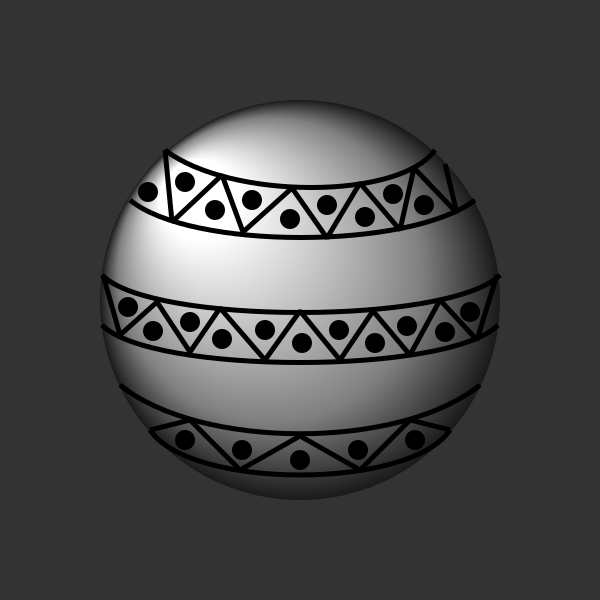
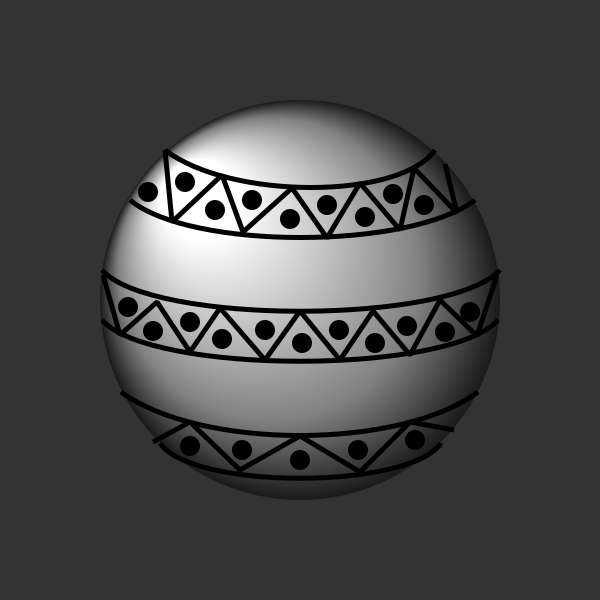
Added the text 'Christmas'

diff --git a/hook_and_string.py b/hook_and_string.py
@@ -61,8 +61,147 @@ def draw_sphere(context, center_x, center_y, radius):
     context.fill()
     context.set_source_rgb(1,1,1)
     context.set_line_width(5)
-    
 
+    # Top Pattern
+    context.move_to(165, 150)
+    context.curve_to(230, 200, 400, 200, 435, 150)
+    context.stroke()
+
+    context.move_to(130, 200)
+    context.curve_to(190, 250, 410, 250, 475, 200)
+    context.stroke()
+
+    context.move_to(165, 150)
+    context.line_to(172, 222)
+    context.line_to(222, 175)
+    context.line_to(243, 232)
+    context.line_to(292, 188)
+    context.line_to(327, 238)
+    context.line_to(360, 183)
+    context.line_to(400, 230)
+    context.line_to(414, 168)
+    context.line_to(457, 213)
+    context.line_to(445, 164)
+    context.set_line_join(cairo.LINE_JOIN_BEVEL)
+    context.stroke()
+
+    context.arc(148, 192, 10, 0, 2 * math.pi)
+    context.fill()
+    context.arc(185, 182, 10, 0, 2 * math.pi)
+    context.fill()
+    context.arc(215, 210, 10, 0, 2 * math.pi)
+    context.fill()
+    context.arc(252, 200, 10, 0, 2 * math.pi)
+    context.fill()
+    context.arc(290, 219, 10, 0, 2 * math.pi)
+    context.fill()
+    context.arc(327, 205, 10, 0, 2 * math.pi)
+    context.fill()
+    context.arc(365, 217, 10, 0, 2 * math.pi)
+    context.fill()
+    context.arc(393, 194, 10, 0, 2 * math.pi)
+    context.fill()
+    context.arc(424, 205, 10, 0, 2 * math.pi)
+    context.fill()
+    # context.arc(440,171,10,0,2*math.pi)
+    context.fill()
+
+    # Set font properties and color for the text "Christmas"
+    ctx.select_font_face("Sans", cairo.FONT_SLANT_NORMAL, cairo.FONT_WEIGHT_BOLD)
+    ctx.set_font_size(30)
+    ctx.set_source_rgb(1, 1, 1)  # White color for the text
+
+    # Get the text extents to calculate centered position
+    text = "Christmas"
+    text_extents = ctx.text_extents(text)
+    x_text = WIDTH // 2 - text_extents.width / 2
+    y_text = HEIGHT // 1.625 + text_extents.height / 4 + 39 # Slightly adjust to place it vertically centered
+
+    # Move to the calculated position and show the text
+    ctx.move_to(x_text, y_text)
+    ctx.show_text(text)
+
+    # middle pattern
+    context.move_to(center_x - radius + 2, center_y - 30)
+    context.curve_to(center_x - 150, center_y + 25, center_x + 150, center_y + 25, center_x + radius, center_y - 30)
+    context.stroke()
+
+    context.move_to(center_x - radius + 2, center_y + 20)
+    context.curve_to(center_x - 150, center_y + 75, center_x + 150, center_y + 75, center_x + radius - 2, center_y + 20)
+    context.stroke()
+
+    #  the triangles
+    context.move_to(center_x - radius + 3, center_y - 25)  #
+    context.line_to(center_x - radius + 20, center_y + 35)  #
+    context.line_to(center_x - radius + 57, center_y + 2)  #
+    context.line_to(center_x - radius + 90, center_y + 52)  #
+    context.line_to(center_x - radius + 120, center_y + 8)  #
+    context.line_to(center_x - radius + 165, center_y + 60)  #
+    context.line_to(center_x - radius + 200, center_y + 11)  #
+    context.line_to(center_x - radius + 240, center_y + 60)  #
+    context.line_to(center_x - radius + 273, center_y + 11)  #
+    context.line_to(center_x - radius + 310, center_y + 55)
+    context.line_to(center_x - radius + 340, center_y)  #
+    context.line_to(center_x - radius + 377, center_y + 36)
+    context.line_to(center_x - radius + 397, center_y - 25)
+    context.set_line_join(cairo.LINE_JOIN_BEVEL)
+    context.stroke()
+
+    # the circles
+    context.arc(center_x - radius + 28, center_y + 7, 10, 0, 2 * math.pi)  #
+    context.fill()
+    context.arc(center_x - radius + 53, center_y + 31, 10, 0, 2 * math.pi)  #
+    context.fill()
+    context.arc(center_x - radius + 90, center_y + 22, 10, 0, 2 * math.pi)  #
+    context.fill()
+    context.arc(center_x - radius + 122, center_y + 39, 10, 0, 2 * math.pi)  #
+    context.fill()
+    context.arc(center_x - radius + 165, center_y + 30, 10, 0, 2 * math.pi)  #
+    context.fill()
+    context.arc(center_x - radius + 202, center_y + 43, 10, 0, 2 * math.pi)  #
+    context.fill()
+    context.arc(center_x - radius + 239, center_y + 30, 10, 0, 2 * math.pi)  #
+    context.fill()
+    context.arc(center_x - radius + 275, center_y + 43, 10, 0, 2 * math.pi)  #
+    context.fill()
+    context.arc(center_x - radius + 307, center_y + 26, 10, 0, 2 * math.pi)  #
+    context.fill()
+    context.arc(center_x - radius + 345, center_y + 32, 10, 0, 2 * math.pi)  #
+    context.fill()
+    context.arc(center_x - radius + 370, center_y + 12, 10, 0, 2 * math.pi)  #
+    context.fill()
+
+    # Bottom Pattern
+    context.move_to(121, 392)
+    context.curve_to(200, 450, 400, 450, 478, 392)
+    context.stroke()
+
+    context.move_to(160, 443)
+    context.curve_to(190, 490, 410, 490, 441, 443)
+    context.stroke()
+
+    context.move_to(153, 442)
+    context.line_to(190, 422)
+    context.line_to(240, 470)
+    context.line_to(300, 436)
+    context.line_to(360, 472)
+    context.line_to(410, 422)
+    context.line_to(454, 430)
+    context.set_line_join(cairo.LINE_JOIN_BEVEL)
+    context.stroke()
+
+    context.arc(190, 446, 10, 0, 2 * math.pi)
+    context.fill()
+    context.arc(242, 450, 10, 0, 2 * math.pi)
+    context.fill()
+    context.arc(300, 460, 10, 0, 2 * math.pi)
+    context.fill()
+    context.arc(358, 450, 10, 0, 2 * math.pi)
+    context.fill()
+    context.arc(415, 440, 10, 0, 2 * math.pi)
+    context.fill()
+
+    print("done")
 
 draw_sphere(ctx, WIDTH // 2, HEIGHT // 2, 200)
 

diff --git a/draw_sphere.py b/draw_sphere.py
@@ -75,7 +75,7 @@ def draw_sphere(context, center_x, center_y, radius):
     context.stroke()
     
     
-    #  the traingles 
+    #  the triangles
     context.move_to(center_x-radius + 3,center_y-25)#
     context.line_to(center_x-radius + 20,center_y + 35) #
     context.line_to(center_x-radius + 57 ,center_y + 2) #
@@ -147,8 +147,6 @@ def draw_sphere(context, center_x, center_y, radius):
     context.fill()
     
     print("done")
-
-
 
 context.set_source_rgb(0.2, 0.2, 0.2)
 context.paint()
